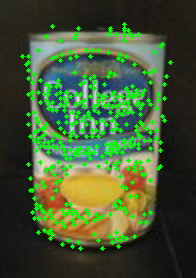
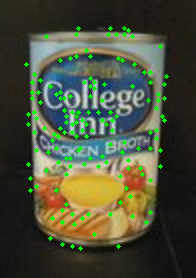
really need to go for part2

diff --git a/cmu_cv/panorama/src/keypointDetect.py b/cmu_cv/panorama/src/keypointDetect.py
@@ -33,7 +33,6 @@ def displayPyramid(im_pyramid):
     cv2.imshow('Pyramid of image', im_pyramid)
     cv2.waitKey(0) # press any key to exit
     cv2.destroyAllWindows()
-    return im_pyramid
 
 def createDoGPyramid(gaussian_pyramid, levels=[-1,0,1,2,3,4]):
     '''Produces DoG Pyramid
@@ -47,7 +46,7 @@ def createDoGPyramid(gaussian_pyramid, levels=[-1,0,1,2,3,4]):
                    created by differencing the Gaussian Pyramid input
     DoG levels - levels[1:], which specifies corresponding levels of DoG Pyramid
     '''
-    DoG_levels = levels[1:]
+    DoG_levels = range(len(levels)-1)
     DoG_pyramid = []
 
     for i in range(len(levels)-1):
@@ -103,7 +102,7 @@ def getLocalExtrema(DoG_pyramid, DoG_levels, principal_curvature,
     '''
     imH, imW, levels = DoG_pyramid.shape
     res = []
-    for l in range(levels):
+    for l in range(1,levels-1):
         # region of interest
         region = DoG_pyramid[1:imH-1, 1:imW-1, l]
         # calculate local extremas in space
@@ -111,10 +110,8 @@ def getLocalExtrema(DoG_pyramid, DoG_levels, principal_curvature,
         space_min = minimum_filter(region, size=3)
         # calculate local extremas in scale
         scale = []
-        if l > 0:
-            scale.append(DoG_pyramid[1:imH-1, 1:imW-1, l-1])
-        if l < levels-1:
-            scale.append(DoG_pyramid[1:imH-1, 1:imW-1, l+1])
+        scale.append(DoG_pyramid[1:imH-1, 1:imW-1, l-1])
+        scale.append(DoG_pyramid[1:imH-1, 1:imW-1, l+1])
         scale = np.asarray(scale)
         scale_max = maximum_filter(np.max(scale, axis=0), size=3)
         scale_min = minimum_filter(np.min(scale, axis=0), size=3)
@@ -122,7 +119,7 @@ def getLocalExtrema(DoG_pyramid, DoG_levels, principal_curvature,
         is_extrema = (region >= np.maximum(space_max, scale_max)) | \
                     (region <= np.minimum(space_min, scale_min))
         is_extrema &= (np.abs(region) >= th_contrast) # remove small DoG response
-        is_extrema &= (np.abs(principal_curvature[1:imH-1, 1:imW-1, l]) <= th_r) # remove large PCR
+        # is_extrema &= (np.abs(principal_curvature[1:imH-1, 1:imW-1, l]) <= th_r) # remove large PCR
 
         coordinates = (np.asarray(np.where(is_extrema == True))+1).T  # +1 back to original frame
         # swap columns such that (x, y)
